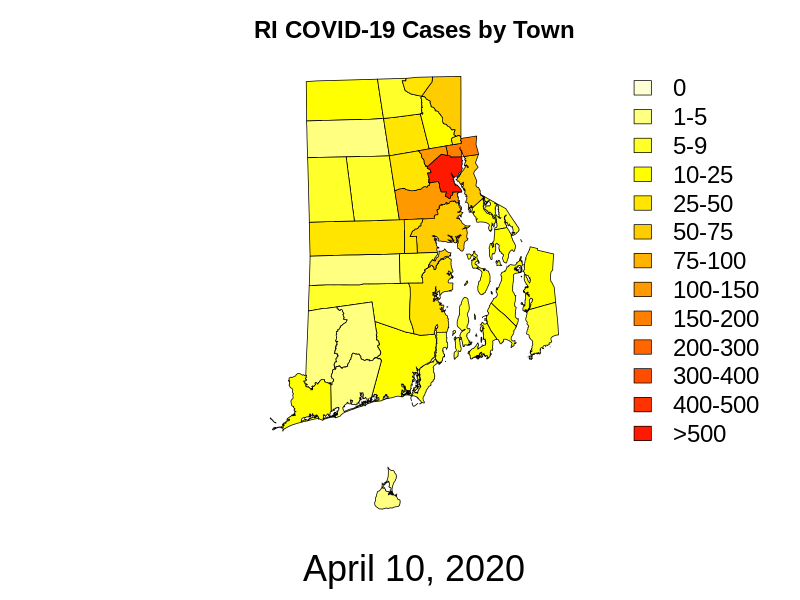
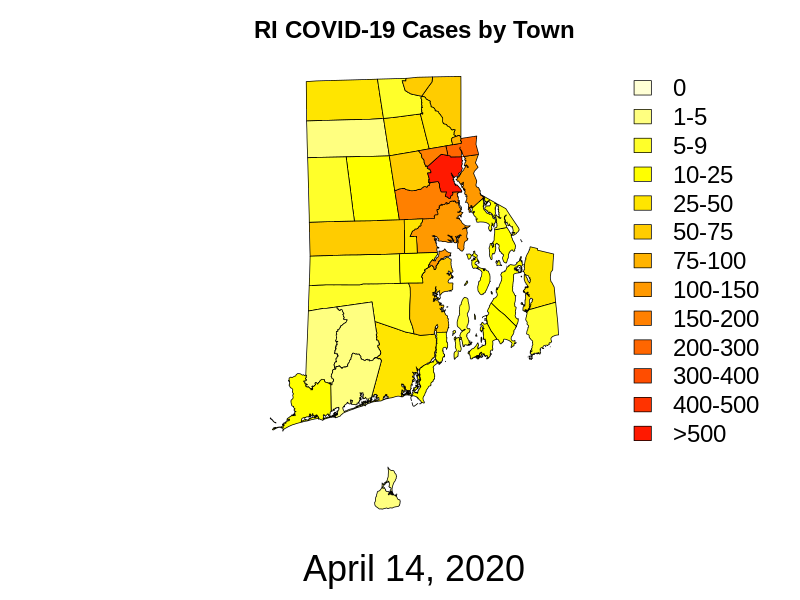
updated data

diff --git a/index.html b/index.html
@@ -1165,48 +1165,48 @@ tt_Init();
 </script>
 <span id="tooltip" name="tooltip" class="tooltip" style="visibility:hidden;"></span>
 <map name="img-map" id="img-map">
-<area shape="circle" coords="418,89,10" onmouseover="Tip('Town&nbsp;&nbsp;:&nbsp;WOONSOCKET<br> Number&amp;nbsp;&amp;nbsp;: &amp;nbsp;42', FONTFACE,'Helvetica', FONTCOLOR, 'black', FONTSIZE, '25', BGCOLOR, '#D6E3F6')"   />
-<area shape="circle" coords="311,400,20" onmouseover="Tip('Town&nbsp;&nbsp;:&nbsp;WESTERLY<br> Number&amp;nbsp;&amp;nbsp;: &amp;nbsp;19', FONTFACE,'Helvetica', FONTCOLOR, 'black', FONTSIZE, '25', BGCOLOR, '#D6E3F6')"   />
-<area shape="circle" coords="412,237,10" onmouseover="Tip('Town&nbsp;&nbsp;:&nbsp;WEST WARWICK<br> Number&amp;nbsp;&amp;nbsp;: &amp;nbsp;37', FONTFACE,'Helvetica', FONTCOLOR, 'black', FONTSIZE, '25', BGCOLOR, '#D6E3F6')"   />
-<area shape="circle" coords="356,271,20" onmouseover="Tip('Town&nbsp;&nbsp;:&nbsp;WEST GREENWICH<br> Number&amp;nbsp;&amp;nbsp;: &amp;nbsp;<5', FONTFACE,'Helvetica', FONTCOLOR, 'black', FONTSIZE, '25', BGCOLOR, '#D6E3F6')"   />
-<area shape="circle" coords="442,231,20" onmouseover="Tip('Town&nbsp;&nbsp;:&nbsp;WARWICK<br> Number&amp;nbsp;&amp;nbsp;: &amp;nbsp;75', FONTFACE,'Helvetica', FONTCOLOR, 'black', FONTSIZE, '25', BGCOLOR, '#D6E3F6')"   />
+<area shape="circle" coords="418,89,10" onmouseover="Tip('Town&nbsp;&nbsp;:&nbsp;WOONSOCKET<br> Number&amp;nbsp;&amp;nbsp;: &amp;nbsp;67', FONTFACE,'Helvetica', FONTCOLOR, 'black', FONTSIZE, '25', BGCOLOR, '#D6E3F6')"   />
+<area shape="circle" coords="311,400,20" onmouseover="Tip('Town&nbsp;&nbsp;:&nbsp;WESTERLY<br> Number&amp;nbsp;&amp;nbsp;: &amp;nbsp;23', FONTFACE,'Helvetica', FONTCOLOR, 'black', FONTSIZE, '25', BGCOLOR, '#D6E3F6')"   />
+<area shape="circle" coords="412,237,10" onmouseover="Tip('Town&nbsp;&nbsp;:&nbsp;WEST WARWICK<br> Number&amp;nbsp;&amp;nbsp;: &amp;nbsp;46', FONTFACE,'Helvetica', FONTCOLOR, 'black', FONTSIZE, '25', BGCOLOR, '#D6E3F6')"   />
+<area shape="circle" coords="356,271,20" onmouseover="Tip('Town&nbsp;&nbsp;:&nbsp;WEST GREENWICH<br> Number&amp;nbsp;&amp;nbsp;: &amp;nbsp;6', FONTFACE,'Helvetica', FONTCOLOR, 'black', FONTSIZE, '25', BGCOLOR, '#D6E3F6')"   />
+<area shape="circle" coords="442,231,20" onmouseover="Tip('Town&nbsp;&nbsp;:&nbsp;WARWICK<br> Number&amp;nbsp;&amp;nbsp;: &amp;nbsp;122', FONTFACE,'Helvetica', FONTCOLOR, 'black', FONTSIZE, '25', BGCOLOR, '#D6E3F6')"   />
 <area shape="circle" coords="506,222,10" onmouseover="Tip('Town&nbsp;&nbsp;:&nbsp;WARREN<br> Number&amp;nbsp;&amp;nbsp;: &amp;nbsp;7', FONTFACE,'Helvetica', FONTCOLOR, 'black', FONTSIZE, '25', BGCOLOR, '#D6E3F6')"   />
-<area shape="circle" coords="539,281,20" onmouseover="Tip('Town&nbsp;&nbsp;:&nbsp;TIVERTON<br> Number&amp;nbsp;&amp;nbsp;: &amp;nbsp;18', FONTFACE,'Helvetica', FONTCOLOR, 'black', FONTSIZE, '25', BGCOLOR, '#D6E3F6')"   />
-<area shape="circle" coords="402,360,20" onmouseover="Tip('Town&nbsp;&nbsp;:&nbsp;SOUTH KINGSTOWN<br> Number&amp;nbsp;&amp;nbsp;: &amp;nbsp;24', FONTFACE,'Helvetica', FONTCOLOR, 'black', FONTSIZE, '25', BGCOLOR, '#D6E3F6')"   />
-<area shape="circle" coords="407,138,20" onmouseover="Tip('Town&nbsp;&nbsp;:&nbsp;SMITHFIELD<br> Number&amp;nbsp;&amp;nbsp;: &amp;nbsp;31', FONTFACE,'Helvetica', FONTCOLOR, 'black', FONTSIZE, '25', BGCOLOR, '#D6E3F6')"   />
-<area shape="circle" coords="374,191,20" onmouseover="Tip('Town&nbsp;&nbsp;:&nbsp;SCITUATE<br> Number&amp;nbsp;&amp;nbsp;: &amp;nbsp;8', FONTFACE,'Helvetica', FONTCOLOR, 'black', FONTSIZE, '25', BGCOLOR, '#D6E3F6')"   />
+<area shape="circle" coords="539,281,20" onmouseover="Tip('Town&nbsp;&nbsp;:&nbsp;TIVERTON<br> Number&amp;nbsp;&amp;nbsp;: &amp;nbsp;26', FONTFACE,'Helvetica', FONTCOLOR, 'black', FONTSIZE, '25', BGCOLOR, '#D6E3F6')"   />
+<area shape="circle" coords="402,360,20" onmouseover="Tip('Town&nbsp;&nbsp;:&nbsp;SOUTH KINGSTOWN<br> Number&amp;nbsp;&amp;nbsp;: &amp;nbsp;38', FONTFACE,'Helvetica', FONTCOLOR, 'black', FONTSIZE, '25', BGCOLOR, '#D6E3F6')"   />
+<area shape="circle" coords="407,138,20" onmouseover="Tip('Town&nbsp;&nbsp;:&nbsp;SMITHFIELD<br> Number&amp;nbsp;&amp;nbsp;: &amp;nbsp;48', FONTFACE,'Helvetica', FONTCOLOR, 'black', FONTSIZE, '25', BGCOLOR, '#D6E3F6')"   />
+<area shape="circle" coords="374,191,20" onmouseover="Tip('Town&nbsp;&nbsp;:&nbsp;SCITUATE<br> Number&amp;nbsp;&amp;nbsp;: &amp;nbsp;12', FONTFACE,'Helvetica', FONTCOLOR, 'black', FONTSIZE, '25', BGCOLOR, '#D6E3F6')"   />
 <area shape="circle" coords="359,335,20" onmouseover="Tip('Town&nbsp;&nbsp;:&nbsp;RICHMOND<br> Number&amp;nbsp;&amp;nbsp;: &amp;nbsp;<5', FONTFACE,'Helvetica', FONTCOLOR, 'black', FONTSIZE, '25', BGCOLOR, '#D6E3F6')"   />
-<area shape="circle" coords="447,176,15" onmouseover="Tip('Town&nbsp;&nbsp;:&nbsp;PROVIDENCE<br> Number&amp;nbsp;&amp;nbsp;: &amp;nbsp;504', FONTFACE,'Helvetica', FONTCOLOR, 'black', FONTSIZE, '25', BGCOLOR, '#D6E3F6')"   />
-<area shape="circle" coords="508,295,15" onmouseover="Tip('Town&nbsp;&nbsp;:&nbsp;PORTSMOUTH<br> Number&amp;nbsp;&amp;nbsp;: &amp;nbsp;14', FONTFACE,'Helvetica', FONTCOLOR, 'black', FONTSIZE, '25', BGCOLOR, '#D6E3F6')"   />
-<area shape="circle" coords="464,151,10" onmouseover="Tip('Town&nbsp;&nbsp;:&nbsp;PAWTUCKET<br> Number&amp;nbsp;&amp;nbsp;: &amp;nbsp;186', FONTFACE,'Helvetica', FONTCOLOR, 'black', FONTSIZE, '25', BGCOLOR, '#D6E3F6')"   />
-<area shape="circle" coords="399,103,20" onmouseover="Tip('Town&nbsp;&nbsp;:&nbsp;NORTH SMITHFIELD<br> Number&amp;nbsp;&amp;nbsp;: &amp;nbsp;7', FONTFACE,'Helvetica', FONTCOLOR, 'black', FONTSIZE, '25', BGCOLOR, '#D6E3F6')"   />
-<area shape="circle" coords="434,157,10" onmouseover="Tip('Town&nbsp;&nbsp;:&nbsp;NORTH PROVIDENCE<br> Number&amp;nbsp;&amp;nbsp;: &amp;nbsp;127', FONTFACE,'Helvetica', FONTCOLOR, 'black', FONTSIZE, '25', BGCOLOR, '#D6E3F6')"   />
-<area shape="circle" coords="431,301,20" onmouseover="Tip('Town&nbsp;&nbsp;:&nbsp;NORTH KINGSTOWN<br> Number&amp;nbsp;&amp;nbsp;: &amp;nbsp;47', FONTFACE,'Helvetica', FONTCOLOR, 'black', FONTSIZE, '25', BGCOLOR, '#D6E3F6')"   />
-<area shape="circle" coords="485,344,10" onmouseover="Tip('Town&nbsp;&nbsp;:&nbsp;NEWPORT<br> Number&amp;nbsp;&amp;nbsp;: &amp;nbsp;18', FONTFACE,'Helvetica', FONTCOLOR, 'black', FONTSIZE, '25', BGCOLOR, '#D6E3F6')"   />
+<area shape="circle" coords="447,176,15" onmouseover="Tip('Town&nbsp;&nbsp;:&nbsp;PROVIDENCE<br> Number&amp;nbsp;&amp;nbsp;: &amp;nbsp;766', FONTFACE,'Helvetica', FONTCOLOR, 'black', FONTSIZE, '25', BGCOLOR, '#D6E3F6')"   />
+<area shape="circle" coords="508,295,15" onmouseover="Tip('Town&nbsp;&nbsp;:&nbsp;PORTSMOUTH<br> Number&amp;nbsp;&amp;nbsp;: &amp;nbsp;16', FONTFACE,'Helvetica', FONTCOLOR, 'black', FONTSIZE, '25', BGCOLOR, '#D6E3F6')"   />
+<area shape="circle" coords="464,151,10" onmouseover="Tip('Town&nbsp;&nbsp;:&nbsp;PAWTUCKET<br> Number&amp;nbsp;&amp;nbsp;: &amp;nbsp;288', FONTFACE,'Helvetica', FONTCOLOR, 'black', FONTSIZE, '25', BGCOLOR, '#D6E3F6')"   />
+<area shape="circle" coords="399,103,20" onmouseover="Tip('Town&nbsp;&nbsp;:&nbsp;NORTH SMITHFIELD<br> Number&amp;nbsp;&amp;nbsp;: &amp;nbsp;8', FONTFACE,'Helvetica', FONTCOLOR, 'black', FONTSIZE, '25', BGCOLOR, '#D6E3F6')"   />
+<area shape="circle" coords="434,157,10" onmouseover="Tip('Town&nbsp;&nbsp;:&nbsp;NORTH PROVIDENCE<br> Number&amp;nbsp;&amp;nbsp;: &amp;nbsp;180', FONTFACE,'Helvetica', FONTCOLOR, 'black', FONTSIZE, '25', BGCOLOR, '#D6E3F6')"   />
+<area shape="circle" coords="431,301,20" onmouseover="Tip('Town&nbsp;&nbsp;:&nbsp;NORTH KINGSTOWN<br> Number&amp;nbsp;&amp;nbsp;: &amp;nbsp;54', FONTFACE,'Helvetica', FONTCOLOR, 'black', FONTSIZE, '25', BGCOLOR, '#D6E3F6')"   />
+<area shape="circle" coords="485,344,10" onmouseover="Tip('Town&nbsp;&nbsp;:&nbsp;NEWPORT<br> Number&amp;nbsp;&amp;nbsp;: &amp;nbsp;21', FONTFACE,'Helvetica', FONTCOLOR, 'black', FONTSIZE, '25', BGCOLOR, '#D6E3F6')"   />
 <area shape="circle" coords="389,493,15" onmouseover="Tip('Town&nbsp;&nbsp;:&nbsp;NEW SHOREHAM<br> Number&amp;nbsp;&amp;nbsp;: &amp;nbsp;<5', FONTFACE,'Helvetica', FONTCOLOR, 'black', FONTSIZE, '25', BGCOLOR, '#D6E3F6')"   />
-<area shape="circle" coords="426,380,10" onmouseover="Tip('Town&nbsp;&nbsp;:&nbsp;NARRAGANSETT<br> Number&amp;nbsp;&amp;nbsp;: &amp;nbsp;10', FONTFACE,'Helvetica', FONTCOLOR, 'black', FONTSIZE, '25', BGCOLOR, '#D6E3F6')"   />
-<area shape="circle" coords="501,326,15" onmouseover="Tip('Town&nbsp;&nbsp;:&nbsp;MIDDLETOWN<br> Number&amp;nbsp;&amp;nbsp;: &amp;nbsp;12', FONTFACE,'Helvetica', FONTCOLOR, 'black', FONTSIZE, '25', BGCOLOR, '#D6E3F6')"   />
-<area shape="circle" coords="542,327,15" onmouseover="Tip('Town&nbsp;&nbsp;:&nbsp;LITTLE COMPTON<br> Number&amp;nbsp;&amp;nbsp;: &amp;nbsp;6', FONTFACE,'Helvetica', FONTCOLOR, 'black', FONTSIZE, '25', BGCOLOR, '#D6E3F6')"   />
-<area shape="circle" coords="436,130,15" onmouseover="Tip('Town&nbsp;&nbsp;:&nbsp;LINCOLN<br> Number&amp;nbsp;&amp;nbsp;: &amp;nbsp;20', FONTFACE,'Helvetica', FONTCOLOR, 'black', FONTSIZE, '25', BGCOLOR, '#D6E3F6')"   />
-<area shape="circle" coords="411,174,15" onmouseover="Tip('Town&nbsp;&nbsp;:&nbsp;JOHNSTON<br> Number&amp;nbsp;&amp;nbsp;: &amp;nbsp;40', FONTFACE,'Helvetica', FONTCOLOR, 'black', FONTSIZE, '25', BGCOLOR, '#D6E3F6')"   />
+<area shape="circle" coords="426,380,10" onmouseover="Tip('Town&nbsp;&nbsp;:&nbsp;NARRAGANSETT<br> Number&amp;nbsp;&amp;nbsp;: &amp;nbsp;17', FONTFACE,'Helvetica', FONTCOLOR, 'black', FONTSIZE, '25', BGCOLOR, '#D6E3F6')"   />
+<area shape="circle" coords="501,326,15" onmouseover="Tip('Town&nbsp;&nbsp;:&nbsp;MIDDLETOWN<br> Number&amp;nbsp;&amp;nbsp;: &amp;nbsp;17', FONTFACE,'Helvetica', FONTCOLOR, 'black', FONTSIZE, '25', BGCOLOR, '#D6E3F6')"   />
+<area shape="circle" coords="542,327,15" onmouseover="Tip('Town&nbsp;&nbsp;:&nbsp;LITTLE COMPTON<br> Number&amp;nbsp;&amp;nbsp;: &amp;nbsp;7', FONTFACE,'Helvetica', FONTCOLOR, 'black', FONTSIZE, '25', BGCOLOR, '#D6E3F6')"   />
+<area shape="circle" coords="436,130,15" onmouseover="Tip('Town&nbsp;&nbsp;:&nbsp;LINCOLN<br> Number&amp;nbsp;&amp;nbsp;: &amp;nbsp;26', FONTFACE,'Helvetica', FONTCOLOR, 'black', FONTSIZE, '25', BGCOLOR, '#D6E3F6')"   />
+<area shape="circle" coords="411,174,15" onmouseover="Tip('Town&nbsp;&nbsp;:&nbsp;JOHNSTON<br> Number&amp;nbsp;&amp;nbsp;: &amp;nbsp;53', FONTFACE,'Helvetica', FONTCOLOR, 'black', FONTSIZE, '25', BGCOLOR, '#D6E3F6')"   />
 <area shape="circle" coords="464,327,15" onmouseover="Tip('Town&nbsp;&nbsp;:&nbsp;JAMESTOWN<br> Number&amp;nbsp;&amp;nbsp;: &amp;nbsp;6', FONTFACE,'Helvetica', FONTCOLOR, 'black', FONTSIZE, '25', BGCOLOR, '#D6E3F6')"   />
-<area shape="circle" coords="324,345,20" onmouseover="Tip('Town&nbsp;&nbsp;:&nbsp;HOPKINTON<br> Number&amp;nbsp;&amp;nbsp;: &amp;nbsp;<5', FONTFACE,'Helvetica', FONTCOLOR, 'black', FONTSIZE, '25', BGCOLOR, '#D6E3F6')"   />
+<area shape="circle" coords="324,345,20" onmouseover="Tip('Town&nbsp;&nbsp;:&nbsp;HOPKINTON<br> Number&amp;nbsp;&amp;nbsp;: &amp;nbsp;5', FONTFACE,'Helvetica', FONTCOLOR, 'black', FONTSIZE, '25', BGCOLOR, '#D6E3F6')"   />
 <area shape="circle" coords="349,142,20" onmouseover="Tip('Town&nbsp;&nbsp;:&nbsp;GLOCESTER<br> Number&amp;nbsp;&amp;nbsp;: &amp;nbsp;<5', FONTFACE,'Helvetica', FONTCOLOR, 'black', FONTSIZE, '25', BGCOLOR, '#D6E3F6')"   />
 <area shape="circle" coords="331,193,20" onmouseover="Tip('Town&nbsp;&nbsp;:&nbsp;FOSTER<br> Number&amp;nbsp;&amp;nbsp;: &amp;nbsp;7', FONTFACE,'Helvetica', FONTCOLOR, 'black', FONTSIZE, '25', BGCOLOR, '#D6E3F6')"   />
 <area shape="circle" coords="370,302,20" onmouseover="Tip('Town&nbsp;&nbsp;:&nbsp;EXETER<br> Number&amp;nbsp;&amp;nbsp;: &amp;nbsp;8', FONTFACE,'Helvetica', FONTCOLOR, 'black', FONTSIZE, '25', BGCOLOR, '#D6E3F6')"   />
-<area shape="circle" coords="471,184,15" onmouseover="Tip('Town&nbsp;&nbsp;:&nbsp;EAST PROVIDENCE<br> Number&amp;nbsp;&amp;nbsp;: &amp;nbsp;58', FONTFACE,'Helvetica', FONTCOLOR, 'black', FONTSIZE, '25', BGCOLOR, '#D6E3F6')"   />
-<area shape="circle" coords="416,268,15" onmouseover="Tip('Town&nbsp;&nbsp;:&nbsp;EAST GREENWICH<br> Number&amp;nbsp;&amp;nbsp;: &amp;nbsp;8', FONTFACE,'Helvetica', FONTCOLOR, 'black', FONTSIZE, '25', BGCOLOR, '#D6E3F6')"   />
-<area shape="circle" coords="448,104,20" onmouseover="Tip('Town&nbsp;&nbsp;:&nbsp;CUMBERLAND<br> Number&amp;nbsp;&amp;nbsp;: &amp;nbsp;52', FONTFACE,'Helvetica', FONTCOLOR, 'black', FONTSIZE, '25', BGCOLOR, '#D6E3F6')"   />
-<area shape="circle" coords="423,204,20" onmouseover="Tip('Town&nbsp;&nbsp;:&nbsp;CRANSTON<br> Number&amp;nbsp;&amp;nbsp;: &amp;nbsp;136', FONTFACE,'Helvetica', FONTCOLOR, 'black', FONTSIZE, '25', BGCOLOR, '#D6E3F6')"   />
-<area shape="circle" coords="359,240,20" onmouseover="Tip('Town&nbsp;&nbsp;:&nbsp;COVENTRY<br> Number&amp;nbsp;&amp;nbsp;: &amp;nbsp;48', FONTFACE,'Helvetica', FONTCOLOR, 'black', FONTSIZE, '25', BGCOLOR, '#D6E3F6')"   />
+<area shape="circle" coords="471,184,15" onmouseover="Tip('Town&nbsp;&nbsp;:&nbsp;EAST PROVIDENCE<br> Number&amp;nbsp;&amp;nbsp;: &amp;nbsp;123', FONTFACE,'Helvetica', FONTCOLOR, 'black', FONTSIZE, '25', BGCOLOR, '#D6E3F6')"   />
+<area shape="circle" coords="416,268,15" onmouseover="Tip('Town&nbsp;&nbsp;:&nbsp;EAST GREENWICH<br> Number&amp;nbsp;&amp;nbsp;: &amp;nbsp;15', FONTFACE,'Helvetica', FONTCOLOR, 'black', FONTSIZE, '25', BGCOLOR, '#D6E3F6')"   />
+<area shape="circle" coords="448,104,20" onmouseover="Tip('Town&nbsp;&nbsp;:&nbsp;CUMBERLAND<br> Number&amp;nbsp;&amp;nbsp;: &amp;nbsp;75', FONTFACE,'Helvetica', FONTCOLOR, 'black', FONTSIZE, '25', BGCOLOR, '#D6E3F6')"   />
+<area shape="circle" coords="423,204,20" onmouseover="Tip('Town&nbsp;&nbsp;:&nbsp;CRANSTON<br> Number&amp;nbsp;&amp;nbsp;: &amp;nbsp;197', FONTFACE,'Helvetica', FONTCOLOR, 'black', FONTSIZE, '25', BGCOLOR, '#D6E3F6')"   />
+<area shape="circle" coords="359,240,20" onmouseover="Tip('Town&nbsp;&nbsp;:&nbsp;COVENTRY<br> Number&amp;nbsp;&amp;nbsp;: &amp;nbsp;55', FONTFACE,'Helvetica', FONTCOLOR, 'black', FONTSIZE, '25', BGCOLOR, '#D6E3F6')"   />
 <area shape="circle" coords="355,383,20" onmouseover="Tip('Town&nbsp;&nbsp;:&nbsp;CHARLESTOWN<br> Number&amp;nbsp;&amp;nbsp;: &amp;nbsp;5', FONTFACE,'Helvetica', FONTCOLOR, 'black', FONTSIZE, '25', BGCOLOR, '#D6E3F6')"   />
-<area shape="circle" coords="457,143,10" onmouseover="Tip('Town&nbsp;&nbsp;:&nbsp;CENTRAL FALLS<br> Number&amp;nbsp;&amp;nbsp;: &amp;nbsp;35', FONTFACE,'Helvetica', FONTCOLOR, 'black', FONTSIZE, '25', BGCOLOR, '#D6E3F6')"   />
-<area shape="circle" coords="345,104,20" onmouseover="Tip('Town&nbsp;&nbsp;:&nbsp;BURRILLVILLE<br> Number&amp;nbsp;&amp;nbsp;: &amp;nbsp;24', FONTFACE,'Helvetica', FONTCOLOR, 'black', FONTSIZE, '25', BGCOLOR, '#D6E3F6')"   />
-<area shape="circle" coords="503,245,15" onmouseover="Tip('Town&nbsp;&nbsp;:&nbsp;BRISTOL<br> Number&amp;nbsp;&amp;nbsp;: &amp;nbsp;14', FONTFACE,'Helvetica', FONTCOLOR, 'black', FONTSIZE, '25', BGCOLOR, '#D6E3F6')"   />
-<area shape="circle" coords="484,217,10" onmouseover="Tip('Town&nbsp;&nbsp;:&nbsp;BARRINGTON<br> Number&amp;nbsp;&amp;nbsp;: &amp;nbsp;18', FONTFACE,'Helvetica', FONTCOLOR, 'black', FONTSIZE, '25', BGCOLOR, '#D6E3F6')"   />
-<area shape="circle" coords="482,278,10" onmouseover="Tip('Town&nbsp;&nbsp;:&nbsp;PORTSMOUTH<br> Number&amp;nbsp;&amp;nbsp;: &amp;nbsp;14', FONTFACE,'Helvetica', FONTCOLOR, 'black', FONTSIZE, '25', BGCOLOR, '#D6E3F6')"   />
-<area shape="circle" coords="442,346,10" onmouseover="Tip('Town&nbsp;&nbsp;:&nbsp;NARRAGANSETT<br> Number&amp;nbsp;&amp;nbsp;: &amp;nbsp;10', FONTFACE,'Helvetica', FONTCOLOR, 'black', FONTSIZE, '25', BGCOLOR, '#D6E3F6')"   />
-<area shape="circle" coords="441,260,10" onmouseover="Tip('Town&nbsp;&nbsp;:&nbsp;WARWICK<br> Number&amp;nbsp;&amp;nbsp;: &amp;nbsp;75', FONTFACE,'Helvetica', FONTCOLOR, 'black', FONTSIZE, '25', BGCOLOR, '#D6E3F6')"   />
+<area shape="circle" coords="457,143,10" onmouseover="Tip('Town&nbsp;&nbsp;:&nbsp;CENTRAL FALLS<br> Number&amp;nbsp;&amp;nbsp;: &amp;nbsp;76', FONTFACE,'Helvetica', FONTCOLOR, 'black', FONTSIZE, '25', BGCOLOR, '#D6E3F6')"   />
+<area shape="circle" coords="345,104,20" onmouseover="Tip('Town&nbsp;&nbsp;:&nbsp;BURRILLVILLE<br> Number&amp;nbsp;&amp;nbsp;: &amp;nbsp;30', FONTFACE,'Helvetica', FONTCOLOR, 'black', FONTSIZE, '25', BGCOLOR, '#D6E3F6')"   />
+<area shape="circle" coords="503,245,15" onmouseover="Tip('Town&nbsp;&nbsp;:&nbsp;BRISTOL<br> Number&amp;nbsp;&amp;nbsp;: &amp;nbsp;20', FONTFACE,'Helvetica', FONTCOLOR, 'black', FONTSIZE, '25', BGCOLOR, '#D6E3F6')"   />
+<area shape="circle" coords="484,217,10" onmouseover="Tip('Town&nbsp;&nbsp;:&nbsp;BARRINGTON<br> Number&amp;nbsp;&amp;nbsp;: &amp;nbsp;22', FONTFACE,'Helvetica', FONTCOLOR, 'black', FONTSIZE, '25', BGCOLOR, '#D6E3F6')"   />
+<area shape="circle" coords="482,278,10" onmouseover="Tip('Town&nbsp;&nbsp;:&nbsp;PORTSMOUTH<br> Number&amp;nbsp;&amp;nbsp;: &amp;nbsp;16', FONTFACE,'Helvetica', FONTCOLOR, 'black', FONTSIZE, '25', BGCOLOR, '#D6E3F6')"   />
+<area shape="circle" coords="442,346,10" onmouseover="Tip('Town&nbsp;&nbsp;:&nbsp;NARRAGANSETT<br> Number&amp;nbsp;&amp;nbsp;: &amp;nbsp;17', FONTFACE,'Helvetica', FONTCOLOR, 'black', FONTSIZE, '25', BGCOLOR, '#D6E3F6')"   />
+<area shape="circle" coords="441,260,10" onmouseover="Tip('Town&nbsp;&nbsp;:&nbsp;WARWICK<br> Number&amp;nbsp;&amp;nbsp;: &amp;nbsp;122', FONTFACE,'Helvetica', FONTCOLOR, 'black', FONTSIZE, '25', BGCOLOR, '#D6E3F6')"   />
 </map>
 <div class="plot">
 <img border="0" src="plot.png" usemap="#img-map" />
